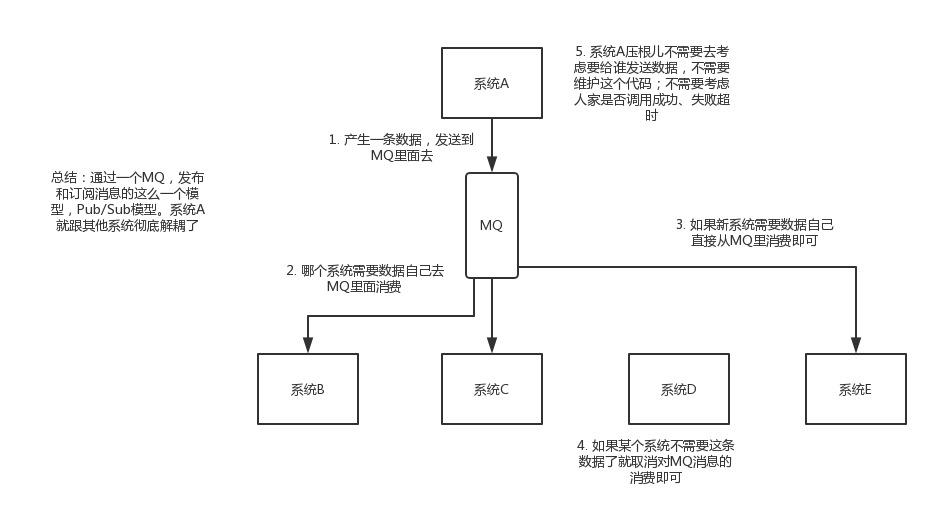
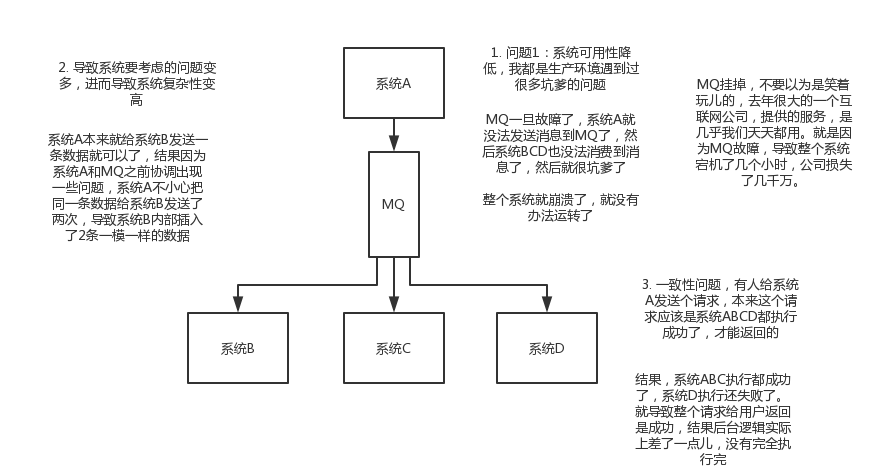
GitBook: [master] one page and 3 assets modified

diff --git a/distributed-system/message-queue.md b/distributed-system/message-queue.md
@@ -1,12 +1,14 @@
 # Message Queue
 
+## 介绍
+
 ### 使用场景
 
 消息队列是分布式系统中的重要组件，主要用于解决什么问题呢？后者说为什么要使用消息队列？
 
 **解耦：**如果一个系统A，调用了多个系统BCD。可能有新的系统E需要调用，老的系统D不再需要调用等情况。系统A还需要考虑C挂掉怎么办？需不需要重新调用？维护起来很麻烦。如果这个调用是不需要同步调用的，那么可以用MQ给他异步化解耦。
 
-![](../.gitbook/assets/tu-pian%20%282%29.png)
+![](../.gitbook/assets/tu-pian%20%283%29.png)
 
 **异步：**引入消息队列，将不是必须的业务逻辑异步处理，可以显著提高系统吞吐量。
 
@@ -15,6 +17,24 @@
 **削峰：**可以缓解短时间内高流量压垮应用**，**比如秒杀活动。
 
 ![](../.gitbook/assets/tu-pian.png)
+
+### 缺点
+
+引入消息队列可以有上述这么多作用，但是也会带来一些问题。
+
+![](../.gitbook/assets/tu-pian%20%282%29.png)
+
+**可用性降低：**系统引入的外部依赖越多，越容易挂掉。本来系统A调用BCD即可，现在加入MQ，若MQ挂了，整个系统就崩溃了。
+
+**系统复杂度提高：**引入MQ就需要考虑MQ的问题。怎么保证消息没有重复消费？怎么处理消息丢失的情况？怎么保证消息传递的顺序性？
+
+**一致性问题：**系统A处理完，发送消息后就返回成功的结果给用户。但是BCD收到消息后不一定能保证执行成功，若有一个系统执行失败了，整个处理结果是失败的。那么和用户得到的结果是不一致的。
+
+### ActiveMQ、RabbitMQ、RocketMQ、Kafka比较
+
+
+
+
 
 
 
